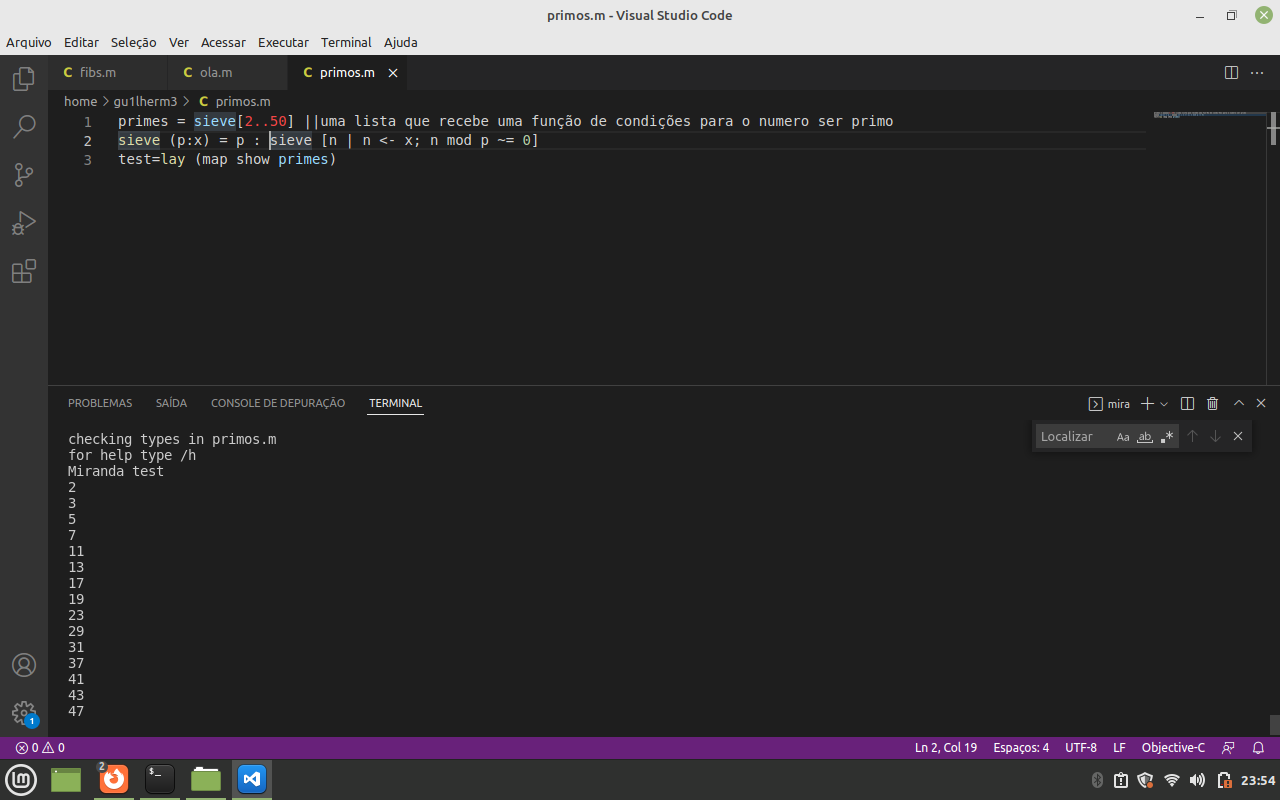
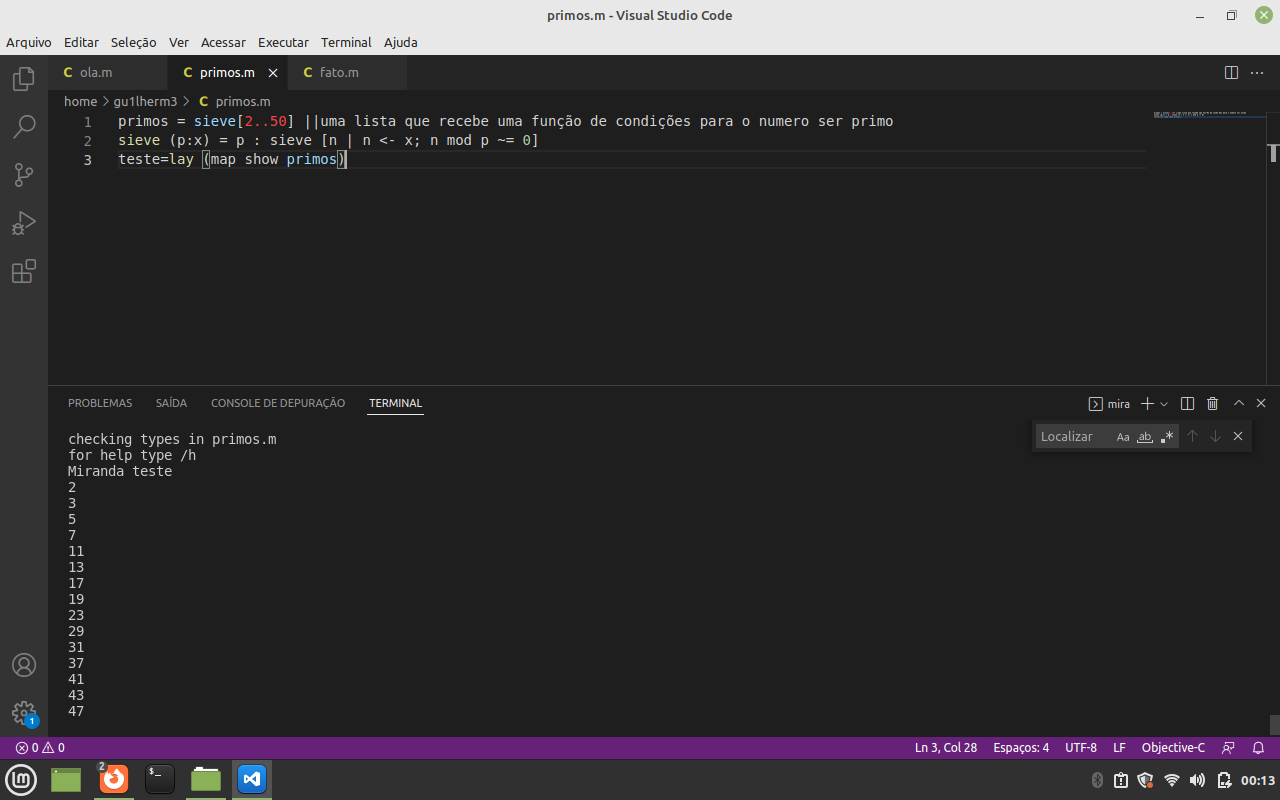
subs

diff --git a/t2/primos.m b/t2/primos.m
@@ -1,3 +1,3 @@
-primes = sieve[2..50] ||uma lista que recebe uma função de condições para o numero ser primo
+primos = sieve[2..50] ||uma lista que recebe uma função de condições para o numero ser primo
 sieve (p:x) = p : sieve [n | n <- x; n mod p ~= 0]
-test=lay (map show primes)
+teste=lay (map show primos)
